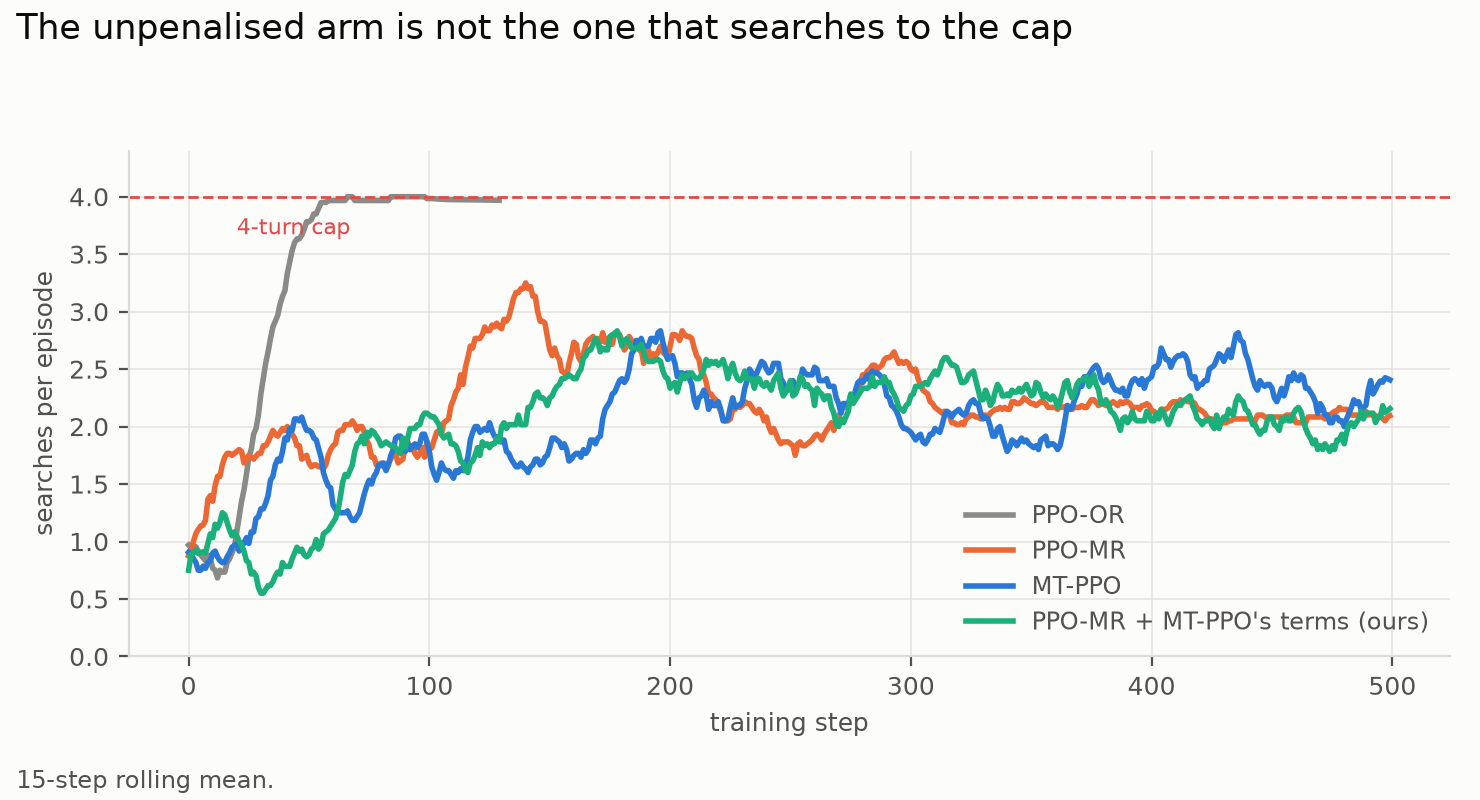
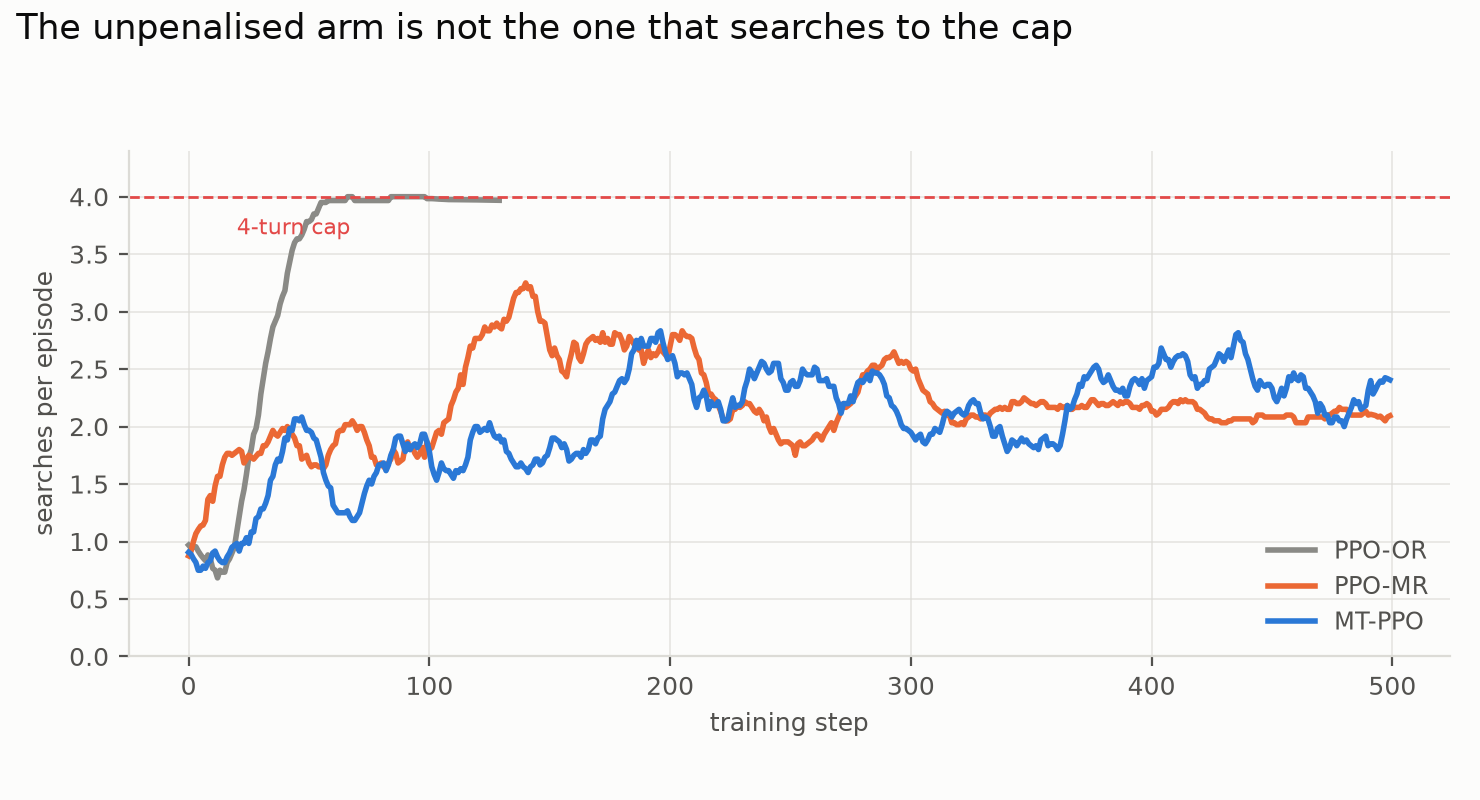
Remove the control arm from the README; one collapse figure for both tracks

diff --git a/scripts/plot_phase7c.py b/scripts/plot_phase7c.py
@@ -178,77 +178,6 @@ def plot_vs_paper(summary: dict, out: Path) -> None:
     plt.close(fig)
 
 
-def plot_decomposition(summary: dict, out: Path) -> None:
-    """Waterfall: the paper's PPO-MR -> MT-PPO step split into reward content and placement.
-
-    A waterfall rather than three bars, because the point is that two opposing contributions sum
-    to the published net -- which grouped bars would leave the reader to compute. Bars are
-    directly labelled, so no legend box: the colours are explained by the axis labels beneath.
-    """
-    base = summary["ppo_mr_paper"]["em"]
-    mid = summary["ppo_mr"]["em"]
-    end = summary["mt_ppo"]["em"]
-    fig, (ax,) = _fig(8.6, 4.6)
-
-    w = 0.5
-    ax.bar(0, base, width=w, color=OURS)
-    ax.bar(1, mid - base, bottom=base, width=w, color=GAIN)  # rises base -> mid
-    ax.bar(2, mid - end, bottom=end, width=w, color=LOSS)  # falls mid -> end
-    ax.bar(3, end, width=w, color=OURS)
-
-    # Step connectors: each bar's exit level carried across to the next bar's entry.
-    for x, level in ((0, base), (1, mid), (2, end)):
-        ax.plot(
-            [x + w / 2, x + 1 - w / 2],
-            [level, level],
-            color=INK_SOFT,
-            linewidth=1,
-            linestyle=(0, (3, 2)),
-            zorder=0,
-        )
-
-    ax.text(0, base + 0.008, f"{base:.3f}", ha="center", fontsize=10.5, color=INK)
-    ax.text(
-        1, mid + 0.008, f"+{mid - base:.3f}", ha="center", fontsize=11, color=GAIN, weight="bold"
-    )
-    ax.text(
-        2,
-        mid + 0.008,
-        f"\u2212{mid - end:.3f}",
-        ha="center",
-        fontsize=11,
-        color=LOSS,
-        weight="bold",
-    )
-    ax.text(3, end + 0.008, f"{end:.3f}", ha="center", fontsize=10.5, color=INK)
-
-    ax.set_xticks(
-        range(4),
-        [
-            "PPO-MR\n(the paper's baseline)",
-            "add \u03bbs + per-turn\nformat CONTENT",
-            "move it to turn\nboundaries (Eq. 9)",
-            "MT-PPO",
-        ],
-        fontsize=9.5,
-    )
-    ax.set_ylabel("Held-out exact match", fontsize=10, color=INK_SOFT)
-    ax.set_ylim(0, 0.35)
-    ax.set_title(
-        "What the paper's +1.7-point MT-PPO gain actually contains",
-        fontsize=12.5,
-        color=INK,
-        loc="left",
-        pad=10,
-    )
-    # No footnote: the bars carry their own values, and the argument they support -- that the
-    # paper's own comparison moves content and placement together -- is the surrounding prose's
-    # job, not a caption's.
-    fig.tight_layout(rect=(0, 0.01, 1, 1))
-    fig.savefig(out, dpi=200, facecolor=SURFACE)
-    plt.close(fig)
-
-
 def _smooth(ys: list[float], window: int = 15) -> list[float]:
     """Centred rolling mean. GRPO reward is inherently noisy step-to-step; smoothing is for
     readability only and does not change the underlying values."""
@@ -259,82 +188,60 @@ def _smooth(ys: list[float], window: int = 15) -> list[float]:
     return out
 
 
-def plot_collapse(curves: dict, out: Path) -> None:
-    """The GRPO-OR collapse, and the mechanism behind it.
+def plot_collapses(curves: dict, out: Path) -> None:
+    """Both collapsed runs next to the runs that held, one panel per track.
 
-    Second panel is frac_reward_zero_std rather than grad_norm: it is bounded [0, 1], so it reads
-    directly as "what fraction of prompt-groups produced no gradient at all", where grad_norm's
-    scale is dominated by a single pre-collapse spike. grad_norm hitting exactly 0.0000 is stated
-    in the caption instead.
+    One figure rather than two: the section's claim is that exactly two of our five runs
+    collapsed, so both collapses belong in a single glance. They cannot share an axis -- the
+    tracks logged different metrics (TRL's GRPOTrainer emits per-step reward; MTPPOTrainer logs
+    per-episode format compliance), and GRPO-OR's death never shows in its answer rate anyway,
+    only in its training signal. Collapsed runs in red, survivors in gray, direct labels.
     """
-    fig, (r_ax, z_ax) = _fig(11, 4.2, ncols=2)
+    fig, (g_ax, p_ax) = _fig(11, 4.2, ncols=2)
 
-    panels = (
-        (r_ax, "reward", "Mean reward", None),
-        (z_ax, "zero_std", "Fraction of groups with zero reward variance", (0, 1.05)),
-    )
-    for ax, key, label, ylim in panels:
-        for arm, color, name in (
-            ("grpo_mr", OURS, "GRPO-MR (merged reward)"),
-            ("grpo_or", DEAD, "GRPO-OR (binary outcome only)"),
-        ):
-            xs = [p[0] for p in curves[arm][key]]
-            ys = [p[1] for p in curves[arm][key]]
-            # Smoothed only: the raw per-step series is pure noise at this density, and in the
-            # zero-variance panel it is a binary 0/1 flicker that obscures rather than informs.
-            ax.plot(xs, _smooth(ys), color=color, linewidth=2.2, label=name)
-        ax.axvline(184, color=LOSS, linewidth=1.1, linestyle="--", alpha=0.8)
-        ax.set_xlabel("Training step", fontsize=10, color=INK_SOFT)
-        ax.set_title(label, fontsize=11, color=INK, loc="left", pad=8)
+    for arm, colour in (("grpo_mr", DEAD), ("grpo_or", LOSS)):
+        xs = [p[0] for p in curves[arm]["reward"]]
+        ys = [p[1] for p in curves[arm]["reward"]]
+        g_ax.plot(xs, _smooth(ys), color=colour, linewidth=2.2)
+    g_ax.set_title("GRPO track", fontsize=11, color=INK, loc="left", pad=8)
+    g_ax.set_ylabel("mean training reward", fontsize=9.5, color=INK_SOFT)
+    g_ax.set_ylim(0, 0.78)
+    g_ax.text(300, 0.045, "GRPO-OR", fontsize=9.5, color=LOSS)
+    g_ax.text(255, 0.60, "GRPO-MR", fontsize=9.5, color=INK_SOFT)
+
+    for arm, colour in (("ppo_mr_paper", DEAD), ("mt_ppo", DEAD), ("ppo", LOSS)):
+        series = curves[arm]
+        p_ax.plot(
+            series["step"],
+            _smooth(series["format_compliance"]),
+            color=colour,
+            linewidth=2.2 if colour == LOSS else 1.8,
+        )
+    p_ax.set_title("PPO track", fontsize=11, color=INK, loc="left", pad=8)
+    p_ax.set_ylabel("share of rollouts with a parseable answer", fontsize=9.5, color=INK_SOFT)
+    p_ax.set_ylim(0, 1.05)
+    p_ax.text(145, 0.07, "PPO-OR", fontsize=9.5, color=LOSS)
+    p_ax.text(190, 0.97, "PPO-MR / MT-PPO", fontsize=9.5, color=INK_SOFT)
+
+    for ax in (g_ax, p_ax):
+        ax.set_xlabel("training step", fontsize=9.5, color=INK_SOFT)
         ax.set_xlim(0, 500)
-        if ylim:
-            ax.set_ylim(*ylim)
 
-    r_ax.set_ylim(-0.1, 1.15)
-    r_ax.annotate(
-        "step 184\nlast nonzero reward",
-        xy=(190, 0.05),
-        xytext=(250, 0.30),
-        fontsize=8.5,
-        color=LOSS,
-        arrowprops={"arrowstyle": "->", "color": LOSS, "linewidth": 1},
-    )
-    z_ax.annotate(
-        "pinned at 1.000 \u2014 every group\nscores identically, so no gradient",
-        xy=(340, 1.0),
-        xytext=(215, 0.72),
-        fontsize=8.5,
-        color=LOSS,
-        arrowprops={"arrowstyle": "->", "color": LOSS, "linewidth": 1},
-    )
-    r_ax.legend(frameon=False, fontsize=9, loc="upper left", labelcolor=INK_SOFT)
-    fig.suptitle(
-        "A binary reward can stop training permanently",
-        fontsize=12.5,
-        color=INK,
-        x=0.007,
-        ha="left",
-        y=0.99,
-    )
-    # Smoothing is the one thing a caption must disclose -- it describes the marks themselves, so
-    # nothing else on the page can tell the reader these curves are not raw. The frozen-checkpoint
-    # and never-searched evidence belongs to the prose.
-    fig.text(0.007, 0.015, "15-step rolling mean.", fontsize=8.5, color=INK_SOFT)
-    fig.tight_layout(rect=(0, 0.04, 1, 0.94))
+    fig.suptitle("Our five training runs", fontsize=12.5, color=INK, x=0.007, ha="left", y=0.99)
+    fig.tight_layout(rect=(0, 0.01, 1, 0.94))
     fig.savefig(out, dpi=200, facecolor=SURFACE)
     plt.close(fig)
 
 
-# Categorical slots for the four PPO arms. ppo is deliberately the desaturated one -- it is the
-# arm that died, and it should read as background against the three that trained.
 # Same section order as PAPER_ANCHORS, restricted to the PPO track. PPO-OR is drawn first so the
 # collapsed arm sits behind the three that trained rather than over them.
-# All four series are this repo's own runs; "PPO-MR" is our run of the paper's PPO-MR reward.
+# All series are this repo's own runs of the paper's three PPO arms. The extra `ppo_mr` control
+# run exists in the results data but is deliberately absent here: the README presents only the
+# paper's five arms (see docs/phase-7c-paper-faithful-ppo.md §15c for the control's write-up).
 PPO_ARMS = [
     ("PPO-OR", "ppo", DEAD),
     ("PPO-MR", "ppo_mr_paper", PAPER),
     ("MT-PPO", "mt_ppo", OURS),
-    ("PPO-MR + MT-PPO's terms (ours)", "ppo_mr", GAIN),
 ]
 
 
@@ -351,20 +258,7 @@ def _ppo_curve(curves: dict, key: str, title: str):
         ax.plot(series["step"], _smooth(series[key]), color=colour, linewidth=2.0, label=name)
     ax.set_xlabel("training step", fontsize=9, color=INK_SOFT)
     fig.suptitle(title, fontsize=12.5, color=INK, x=0.011, ha="left", y=0.985)
-    # Where PPO-OR's curve stops is visible in the curve itself; only the smoothing needs saying.
-    fig.text(0.011, 0.015, "15-step rolling mean.", fontsize=8.5, color=INK_SOFT)
     return fig, ax
-
-
-def plot_format(curves: dict, out: Path) -> None:
-    """PPO-OR flatlining to zero answers while the reward-shaped arms hold near 0.8."""
-    fig, ax = _ppo_curve(curves, "format_compliance", "Our PPO-OR stops producing answers at all")
-    ax.set_ylabel("share of rollouts with a parseable answer", fontsize=9, color=INK_SOFT)
-    ax.set_ylim(0, 1.02)
-    ax.legend(frameon=False, fontsize=8.5, loc="center right", labelcolor=INK_SOFT)
-    fig.tight_layout(rect=(0, 0.04, 1, 0.93))
-    fig.savefig(out, dpi=200, facecolor=SURFACE)
-    plt.close(fig)
 
 
 def plot_searches(curves: dict, out: Path) -> None:
@@ -476,12 +370,10 @@ def main() -> None:
     summary = json.loads((RESULTS / "phase7c-summary.json").read_text())
     curves = json.loads((RESULTS / "phase7c-curves.json").read_text())
     plot_vs_paper(summary, RESULTS / "phase7c_vs_paper.png")
-    plot_decomposition(summary, RESULTS / "phase7c_decomposition.png")
-    plot_collapse(curves, RESULTS / "phase7c_collapse.png")
-    plot_format(curves, RESULTS / "phase7c_format.png")
+    plot_collapses(curves, RESULTS / "phase7c_collapses.png")
     plot_searches(curves, RESULTS / "phase7c_searches.png")
     plot_followups(RESULTS / "followup_experiments_comparison.png")
-    print("wrote 6 figures to results/")
+    print("wrote 4 figures to results/")
 
 
 if __name__ == "__main__":

diff --git a/README.md b/README.md
@@ -157,10 +157,8 @@ differs; across the GRPO/PPO divide the algorithm differs too, by design.
 | `PPO-OR` | 0.002 | Collapsed — searched forever, stopped answering¹ |
 | `PPO-MR` | 0.235 | Worked |
 | `MT-PPO` | 0.274 | Worked — the paper's best method |
-| `PPO-MR` + MT-PPO's reward terms² | **0.301** | Worked — best arm overall |
 
 ¹ Stopped early and evaluated at its last checkpoint before collapse.
-² Our own control arm, not in the paper — see "two effects" below.
 
 ![This reproduction against the paper's published results](results/phase7c_vs_paper.png)
 
@@ -178,12 +176,10 @@ Same reward, opposite fates — the only thing that changed is scale:
 | `PPO-OR` | 0.435 EM | 0.002 EM |
 | `GRPO-OR` | 0.331 EM | 0.000 EM |
 
-![PPO-OR's format compliance falling to zero while the reward-shaped arms hold](results/phase7c_format.png)
+![Both collapses during training, next to our runs that held](results/phase7c_collapses.png)
 
 `PPO-OR` stopped answering (format compliance 0.003) while posting the best retrieval score of any
 arm (0.528). Watch only the retrieval metric and the most broken arm looks like the best one.
-
-![GRPO-OR collapsing: reward and reward-variance curves](results/phase7c_collapse.png)
 
 `GRPO-OR` died differently. When every rollout in a group scores the same, GRPO's advantage is zero
 by construction; after step 184 its gradient is exactly 0.0000 and never recovers. `GRPO-MR` is the
@@ -203,17 +199,11 @@ that penalty at zero and settles near 2 searches per episode. What actually boun
 +0.2 reward for a wrong-but-formatted answer — always something to gain by stopping and committing.
 `PPO-OR`, the arm with no such term, is the one that searched to the cap forever.
 
-### The paper's headline gain is two effects, not one
+### The paper's headline result reproduced
 
-The paper's headline result reproduced: `PPO-MR → MT-PPO` is 0.235 → 0.274 EM here, a gain of
-+0.039 against the paper's +0.017. But that step changes what the reward *contains* and *where* it
-is placed at once, so we added the control the paper lacks: MT-PPO's reward terms, still all placed
-at the end.
-
-![Waterfall decomposing the MT-PPO gain into reward content and placement](results/phase7c_decomposition.png)
-
-The content is worth +0.066; moving it to the turns loses −0.027. At n=1 the first is large enough
-to trust, the second isn't.
+`PPO-MR → MT-PPO` is 0.235 → 0.274 EM here, a gain of +0.039 against the paper's +0.017 — same
+direction, larger magnitude. Format compliance rose 0.642 → 0.830. Every arm is a single run, so
+read the direction as the reproduction and the magnitude loosely.
 
 ### Our own experiment: a narrow reward is fragile to added penalties
 
